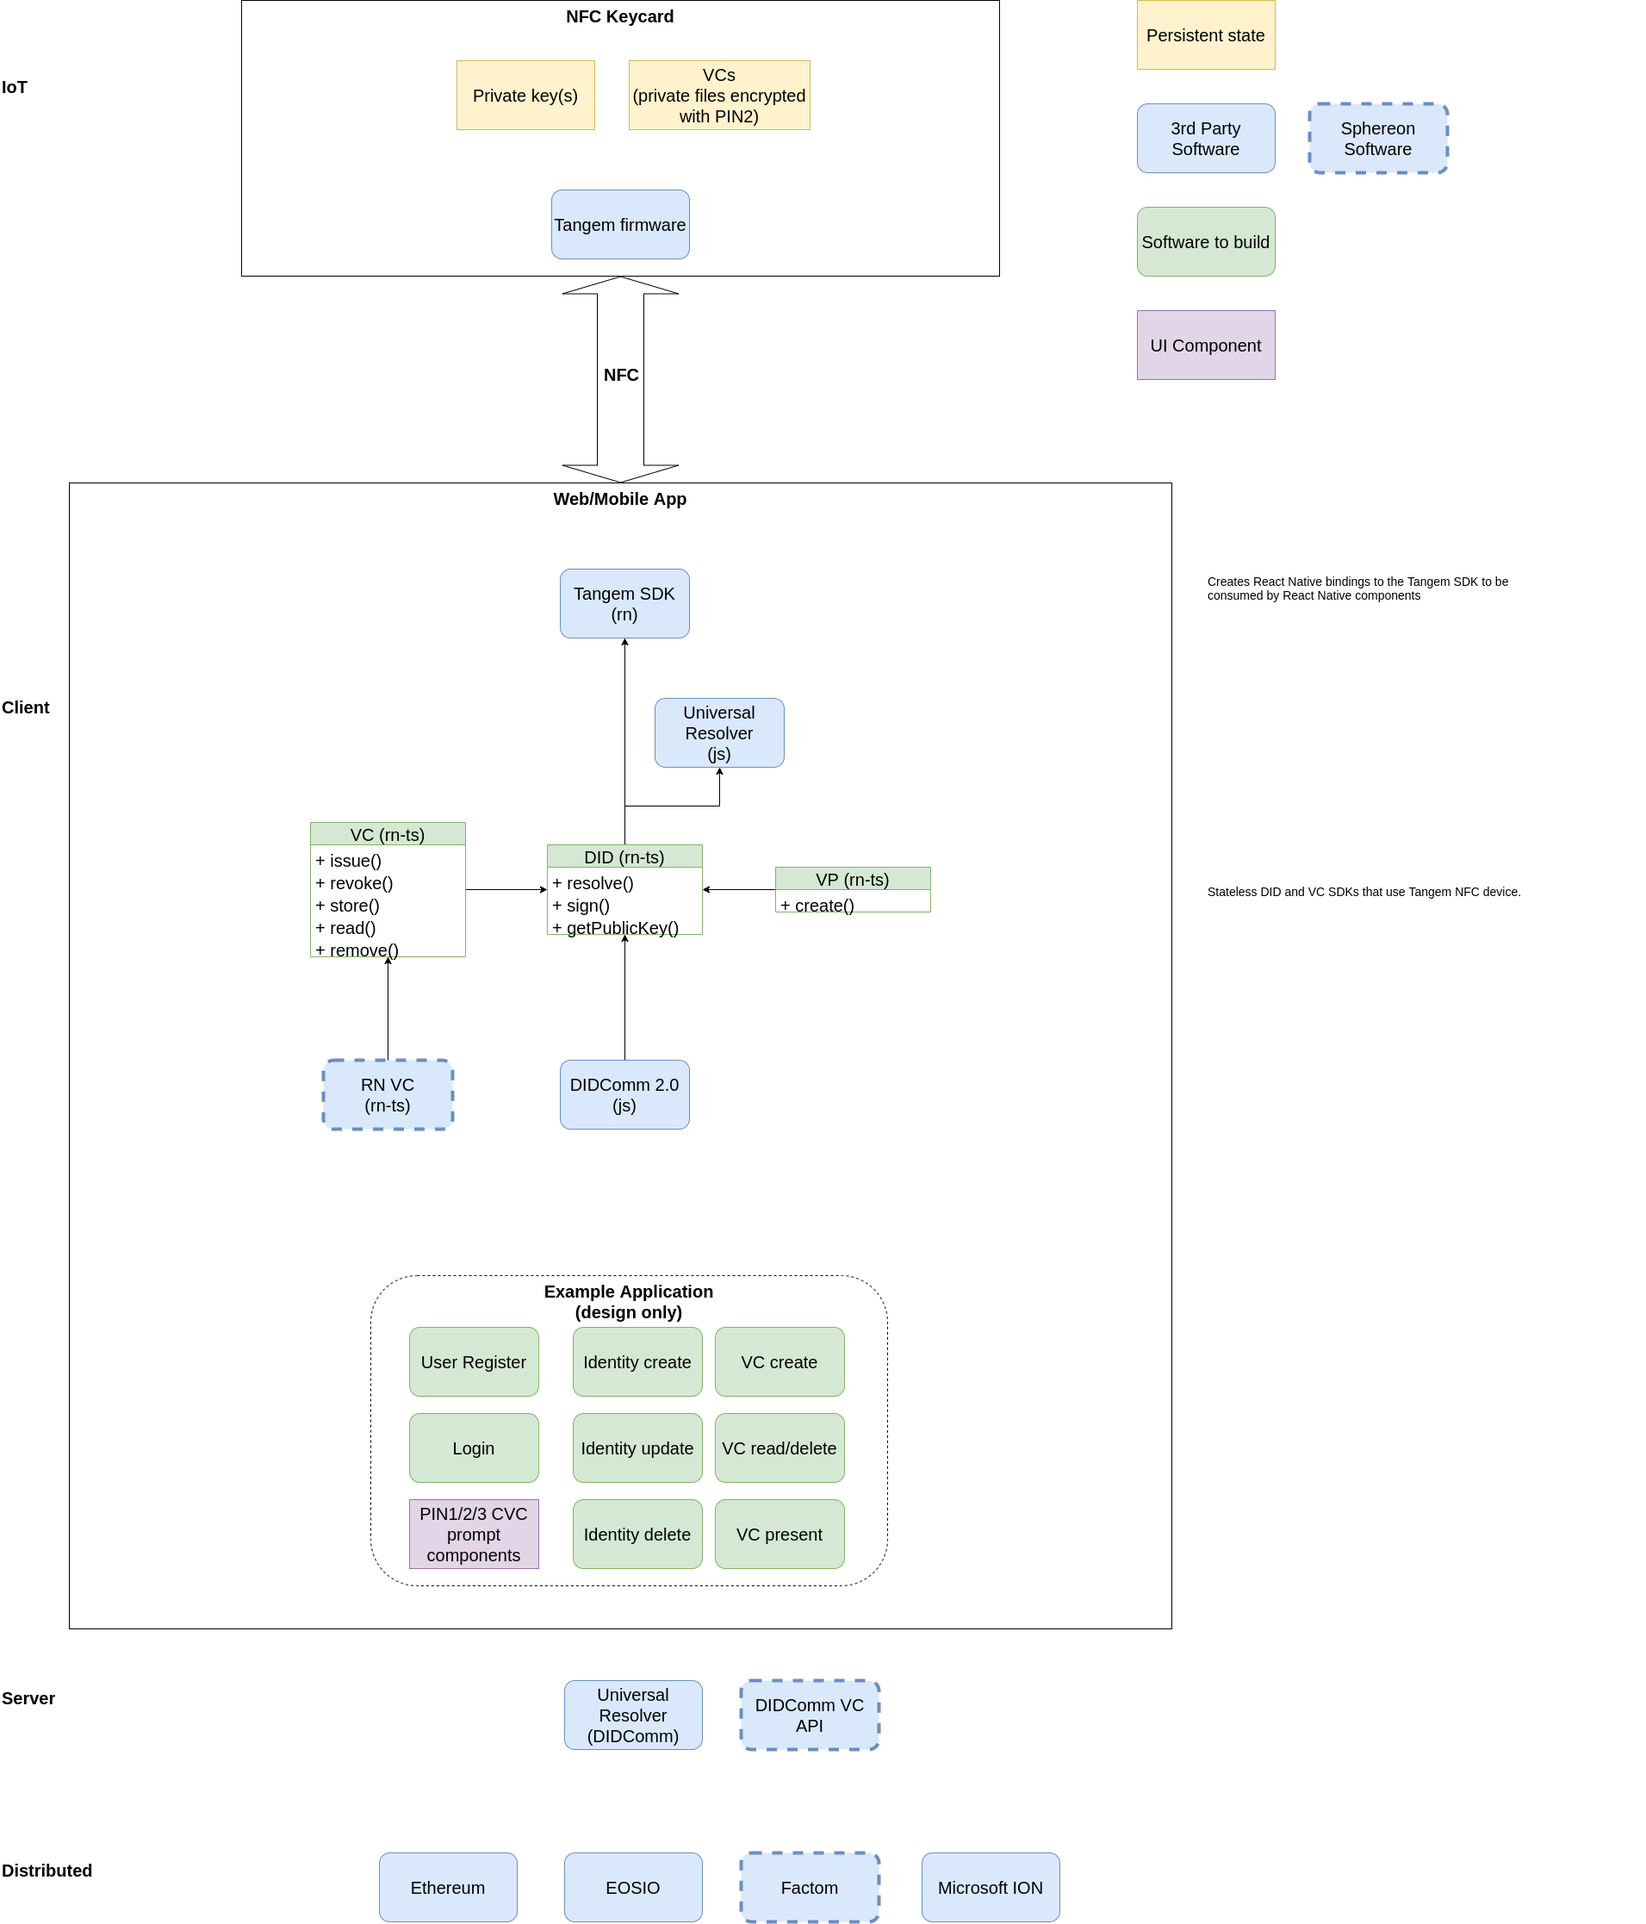
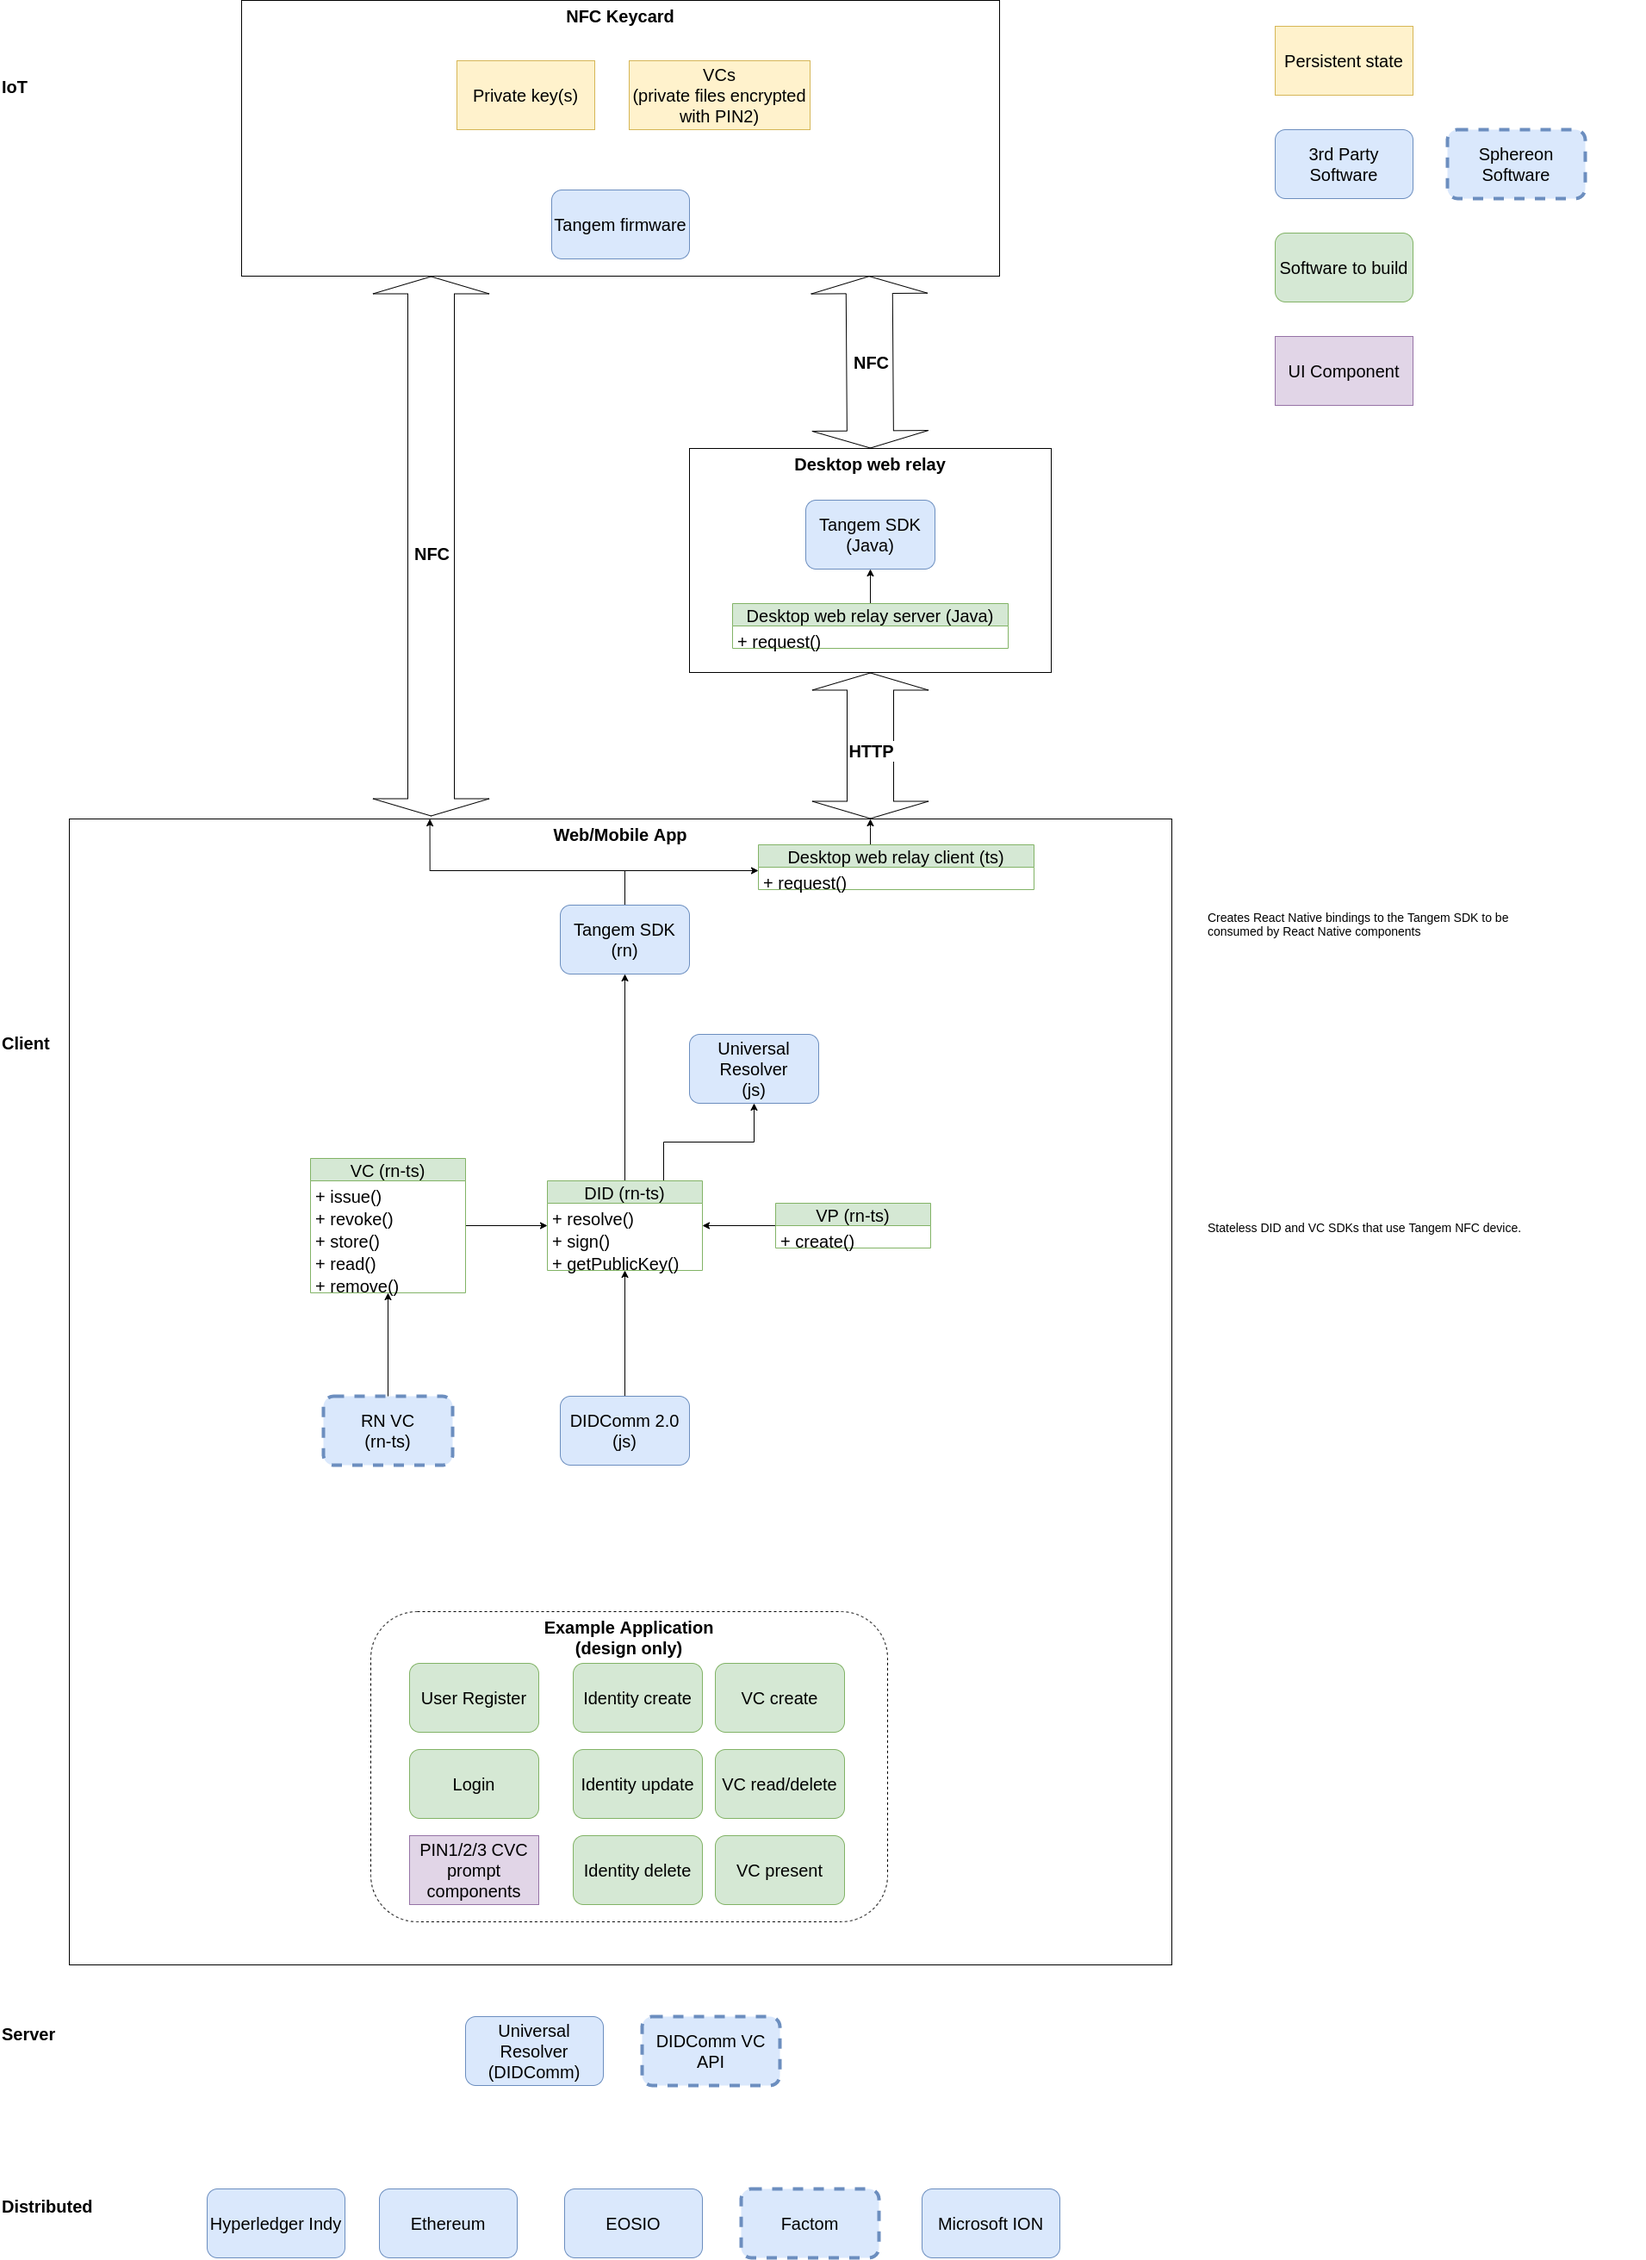
Updates to architecture, removed CLI and user stories

diff --git a/functional-specification/overview.md b/functional-specification/overview.md
@@ -1,35 +1,28 @@
 # Functional overview
-The SSI-NFC bridge  consists of two toolsets. These tool sets allow developers to use SSI components that are cryptographically signed or bound to the NFC device, as explained below.
+The SSI-NFC bridge consists of an SDK that allow developers to use SSI components that are cryptographically signed or bound to the NFC device, as explained below.
 
-## 1. Software development kit (SDK)
-This is a react native SDK  which allows developers to build SSI  applications using the features of the NFC devices. There are three planned libraries to support DIDs, verifiable credentials and verifiable presentations.  These libraries will make  the use of the React Native Tangem SDK and create the abstraction layers on top of this to facilitate easy-to-build SSI applications that take advantage of the secure Tangem NFC devices.
+## React Native SSI-NFC software development kit (SDK)
+This is a react native SDK which allows developers to build SSI  applications using the features of the NFC devices. There are three planned libraries to support DIDs, verifiable credentials and verifiable presentations.  These libraries will make  the use of the React Native Tangem SDK and create the abstraction layers on top of this to facilitate easy-to-build SSI applications that take advantage of the secure Tangem NFC devices.
 
 Support for additional SSI components can be added. DIDComm may be supported in the future if sufficient interest is shown.
 
 ### Architecture
 ![Architecture](./architecture.png)
 
-As seen in the architecture diagram, the NFC-SSI bridge SDK will use the React Native Tangem SDK to communicate with the Tangem device using the NFC transport protocol. The Tangem device stores a private key, which can be used to digitally sign transactions.
+As seen in the architecture diagram, the NFC-SSI bridge SDK will use the React Native Tangem SDK to communicate with the Tangem device using the NFC transport protocol. The Tangem device stores a private key, which can be used to digitally sign transactions. The device can then be used to create DIDs, sign verifiable credentials, verifiable presentations and more.
+
+The DID module will be fully DID method independant. Any blockdhain or verification registry can be used with this SDK.
 
 See
 - [did.md](./did.md)
 - [vc.md](./vc.md)
 - [vp.md](./vp.md)
 
-### User interface
-To facilitate the testing an understanding of the SDK,  we aim to create a simple React Native  application that displays the core functionalities of these libraries.  the user stories of this application can be found here:
-<br>
-[user-stories.md](./user-stories.md)
-
-## 2. Command line interface (CLI)
-This is a nodejs package, to be installed locally by developers with a small amount of functions to assist in initialisation and configuration of their React Native project. Their project will then be able to immediately use the Tangem and SSI-NFC bridge SDKs.
-
-This is an optional component, provided for developer convenience so that they do not have to install all the dependencies for using Tangem NFC devices manually, which can be difficult.
-
-See
-- [cli.md](./cli.md)
+To communicate with NFC devices through an NFC reader on desktop, the SDK will connect via a local http connection to a locally installed application which will relay the request to the NFC device and back. This thin relay app will host an http server and convert requests to NFC requests using the Tangem Java SDK.
 
 ## Support
 The SSI-NFC bridge will support React Native projects, with the same prerequisites as React Native to use.
 
-Additionally, phones will need to have an NFC reader to be able to use these libraries. Desktop clients will need to have an inbuilt or USB NFC reader.
+Additionally:
+- Mobile devices will need to have an NFC reader to be able to use these libraries.
+- Desktop clients will need to have an inbuilt or USB NFC reader and the Web desktop relay software installed.

diff --git a/functional-specification/did.md b/functional-specification/did.md
@@ -18,11 +18,13 @@ This will sign a string or a json object, using the private key of the NFC devic
 
 If the input is a string, the NFC device will sign a SHA256 hash of this string. If the input is an object, this will be converted into a JSON string and the NFC device will sign a SHA256 hash of this string.
 
-Note: If a hash wishes to be signed, they should directly use the React Native Tangem SDK.
+## SignHash
+This will sign a hash, using the private key of the NFC device.
 
 ## Get Public Key
 The public key on the NFC device will be fetched. This may require user input of the PIN or other security options. If requested, the public key will be verified by checking that the card presents a signature of a provided random challenge, which takes a bit more time.
 
 ## Not in scope
 Configuration of the NFC  device is not supported by the library. This should be done directly using the React Native Tangem SDK’s wallet functions.
-DID create, update and deactivate operations  are not directly supported by the library. This is because each DID method has a different mechanism for these operations. The library provides the sign() and getPublicKey() functions to allow for these DID operations to be implemented in their respective DID method implementations if needed. An example application will demostrate how to implement DID create for reference.
+
+To ensure the library is fully DID method independant, DID create, update and deactivate operations are not directly supported by the library. This is because each DID method has a different mechanism for these operations. The library provides the `sign()`, `signHash()` and `getPublicKey()` functions to allow for these DID operations to be implemented in their respective DID method implementations if needed. An example application will demostrate how to implement DID create for reference.

diff --git a/interfaces/overview.md b/interfaces/overview.md
@@ -10,7 +10,16 @@ The [typescript](https://www.typescriptlang.org) type files show tightly coupled
 This can be best viewed in most modern IDE such as Atom or Visual Studio which linked types to other packages such as vc-js and tangem-sdk-react-native can be inspected. Or it can be viewed in Gitlab.
 
 ## Markdown
-A copy of the interface descriptions made using [JSDoc](https://jsdoc.app) can be found here in gitlab for convenience.  this can be viewed in the following files:
+A copy of the interface descriptions made using [JSDoc](https://jsdoc.app) can be found here in gitlab for convenience. This can be viewed in the following files:
+
+[JSDoc](https://jsdoc.app) has the following format and syntax:
+```js
+/** 
+* Description of function
+* 
+* @param {ParameterType} [parameterName = optionalDefaultValue] - Description of parameter. [] is an optional parameter.
+* @return {ReturnType} - The return value and type, and a description of what is returned
+```
 
 - [did.md](./did.md)
 - [vc.md](./vc.md)

diff --git a/interfaces/did.md b/interfaces/did.md
@@ -1,6 +1,6 @@
 # DID Sdk Interface
 
-```json
+```js
 /** 
 * Resolves a DID to a DID Document and verifies the DID Document contains a key which can be signed by the presented NFC device
 * 

diff --git a/interfaces/vc.md b/interfaces/vc.md
@@ -1,7 +1,7 @@
 # Verifiable Credentials Sdk Interface
 
 
-```json
+```js
 /** 
 * Issues a VC signed by the NFC device
 * 

diff --git a/interfaces/vp.md b/interfaces/vp.md
@@ -1,6 +1,6 @@
 # Verifiable Presentations Sdk Interface
 
-```json
+```js
 /** 
 * Issues a VP signed by the NFC device
 * 
